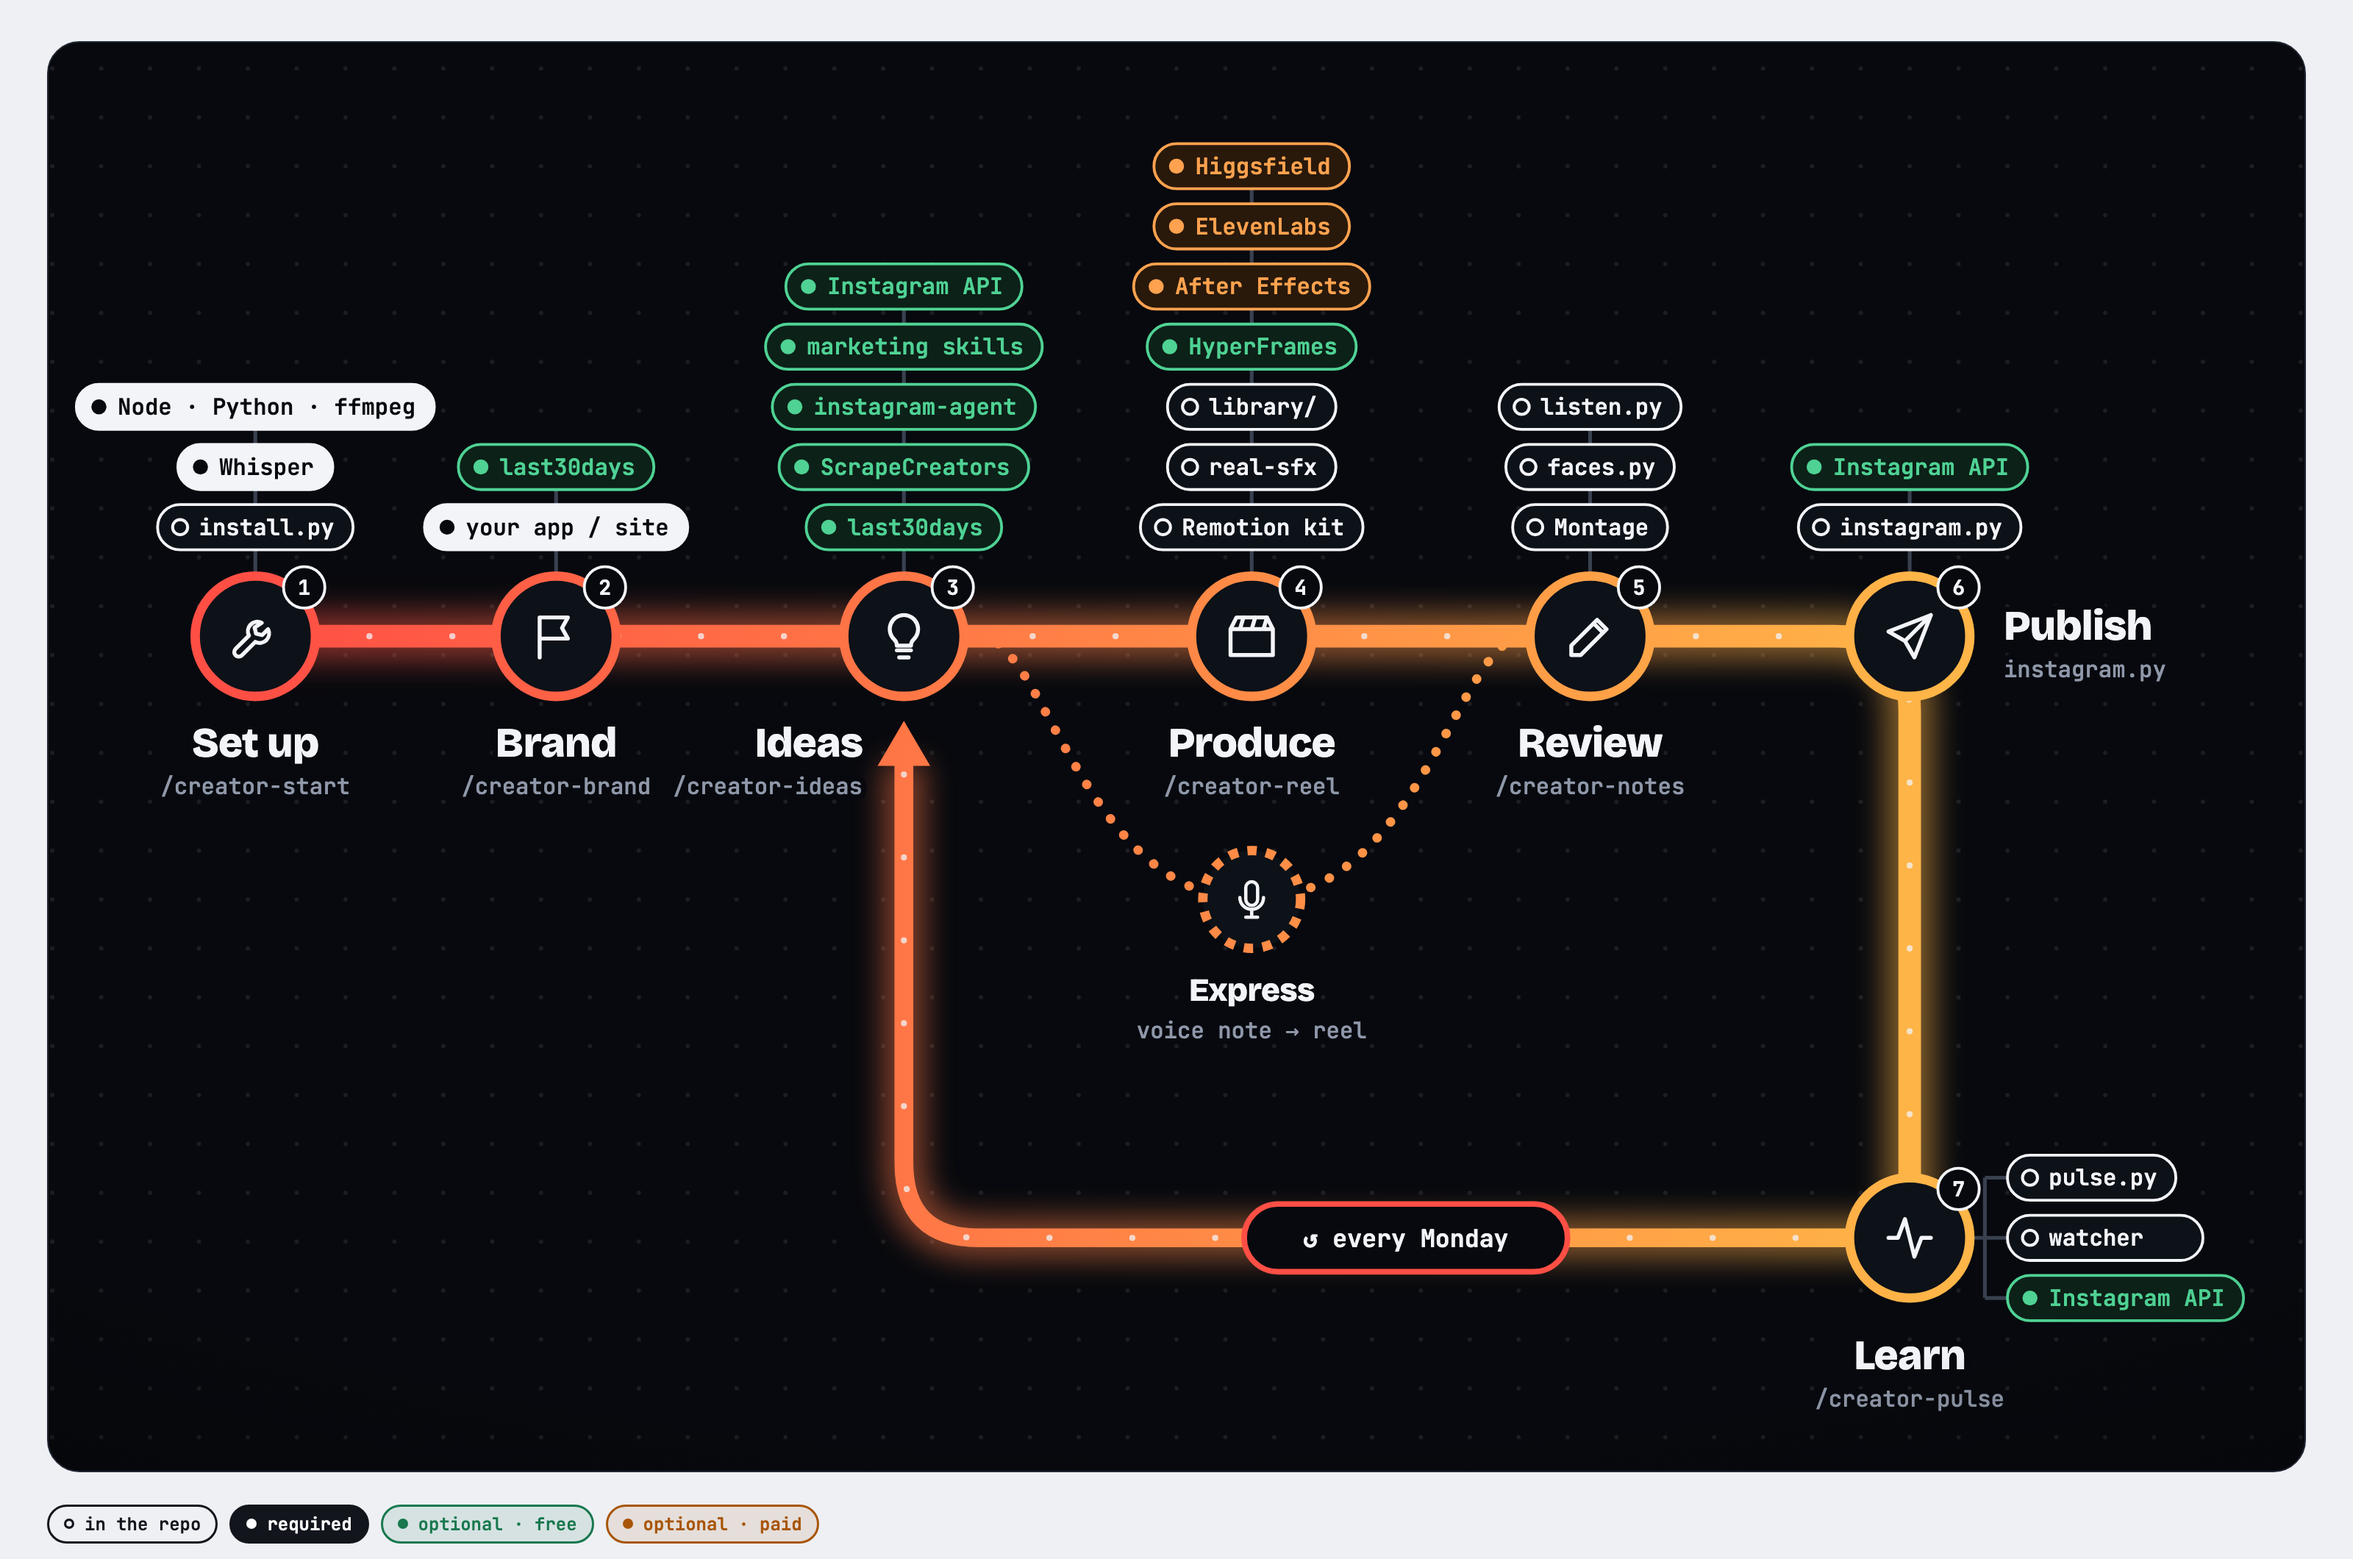
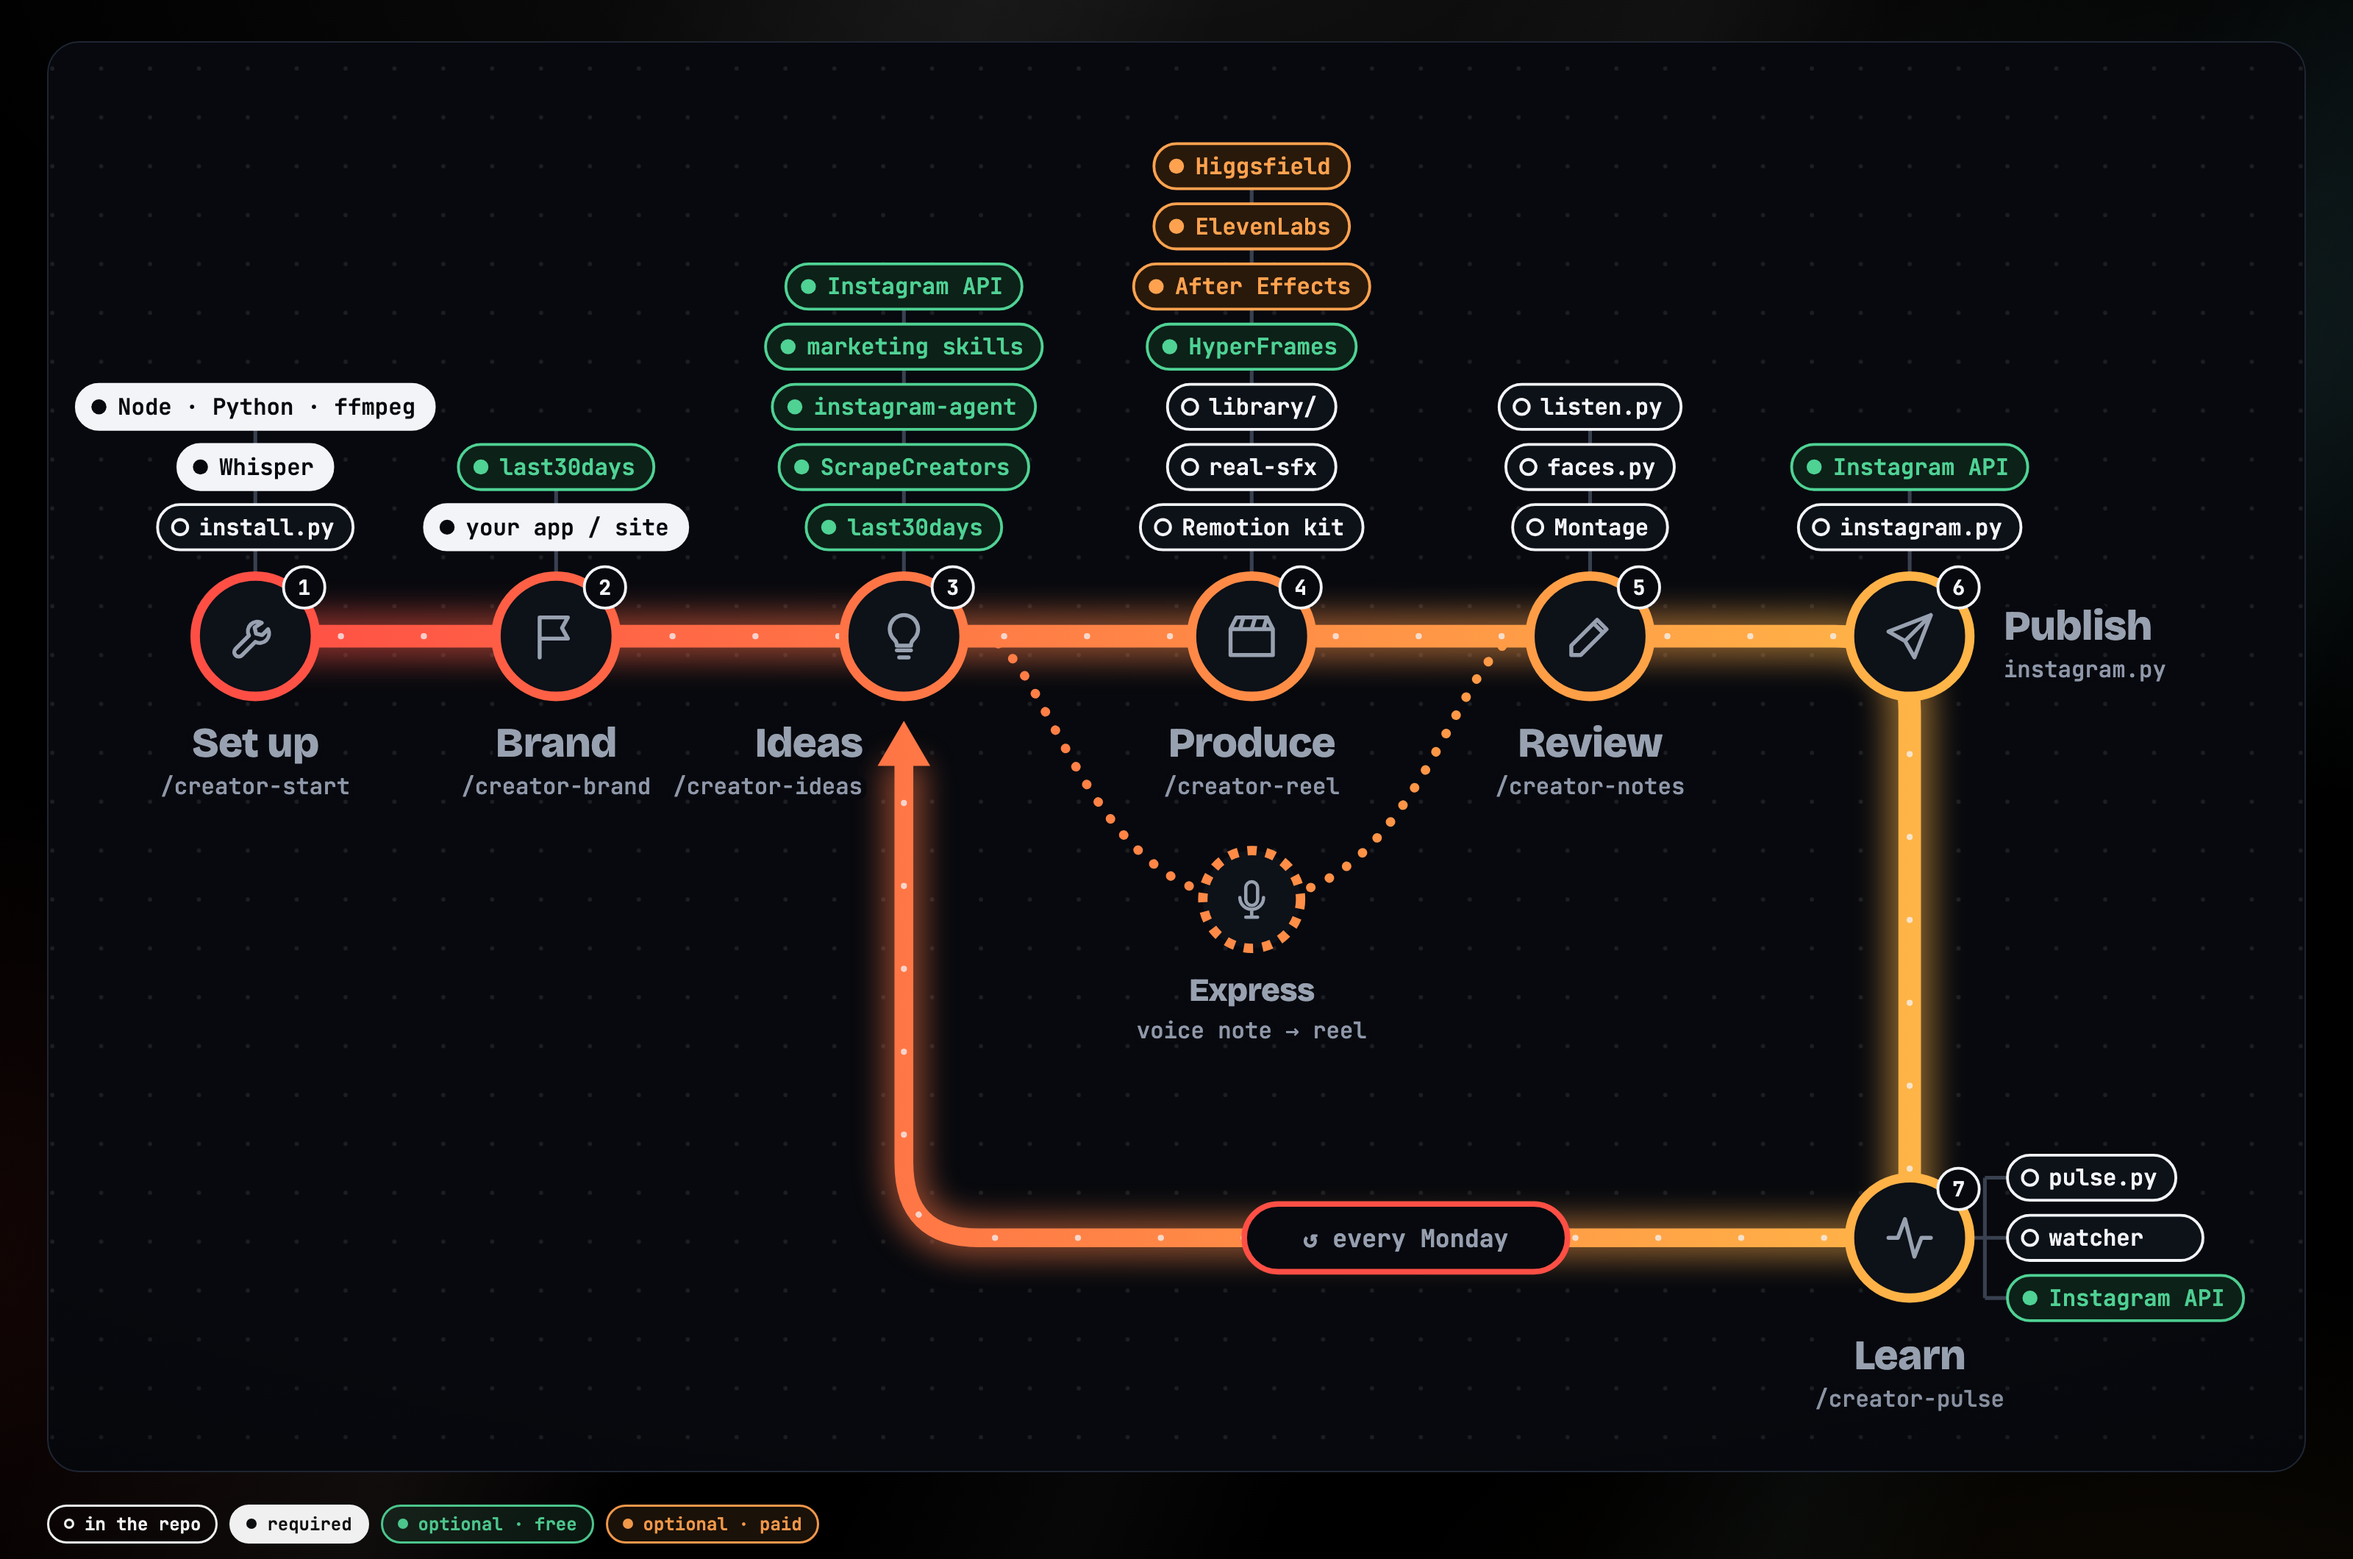
Map: the Dirac Core look, black with drifting light beams and glass panels

diff --git a/docs/guide.html b/docs/guide.html
@@ -12,8 +12,10 @@
 <style>
 /* Layout: a dark player (the metro map as a screen, with the chapter panel beside it), then the timeline of what each step uses, then how to start. */
 :root {
-  --bg: #eef0f4; --surface: #ffffff; --ink: #12151c; --muted: #5b6372; --rule: #d6dbe3;
-  --accent: #d93e33; --free: #18784e; --paid: #a85507;
+  /* one look, the one of diraccore.com: pure black, light beams, translucent edges */
+  --bg: #000000; --surface: #0d0e10; --ink: #f0f0f0; --muted: #a1a4a5; --rule: #ddeaf81a;
+  --accent: #ff6155; --free: #4cc58c; --paid: #f0974a; --ice: #7de3f4; --panel: rgb(20 21 23 / 0.6);
+  color-scheme: dark;
   /* the player is a screen: the same in both themes */
   --s-bg: #07090e; --s-panel: #0d1118; --s-raise: #151a24; --s-ink: #f2f4f8; --s-muted: #8f98a9; --s-faint: #1f2632; --s-dim: #394150;
   --s-red: #ff4f45; --s-amber: #ffb547; --s-free: #4fd294; --s-free-bg: #0c2118; --s-paid: #ffa24f; --s-paid-bg: #29190a; --s-shade: rgb(0 0 0 / 0.62);
@@ -21,11 +23,27 @@
   --body: "Inter", system-ui, -apple-system, "Segoe UI", sans-serif;
   --mono: "JetBrains Mono", ui-monospace, Menlo, Consolas, monospace;
 }
-@media (prefers-color-scheme: dark) { :root:not([data-theme="light"]) { --bg: #0a0c11; --surface: #11151d; --ink: #eceef3; --muted: #99a1b0; --rule: #232934; --accent: #ff6155; --free: #4cc58c; --paid: #f0974a; color-scheme: dark; } }
-:root[data-theme="dark"] { --bg: #0a0c11; --surface: #11151d; --ink: #eceef3; --muted: #99a1b0; --rule: #232934; --accent: #ff6155; --free: #4cc58c; --paid: #f0974a; color-scheme: dark; }
 * { box-sizing: border-box; }
 [hidden] { display: none !important; }
-body { margin: 0; background: var(--bg); color: var(--ink); font-family: var(--body); font-size: 15px; line-height: 1.45; }
+body { margin: 0; background: var(--bg); color: var(--ink); font-family: var(--body); font-size: 15px; line-height: 1.45; position: relative; isolation: isolate; }
+/* the background: diagonal beams of light that drift slowly, a soft white glow on top,
+   the brand's ice blue on one side and the map's red and amber on the other */
+body::before, body::after { content: ""; position: fixed; inset: -20%; z-index: -1; pointer-events: none; }
+body::before {
+  background:
+    linear-gradient(112deg, transparent 32%, rgb(255 255 255 / 0.045) 41%, transparent 47%),
+    linear-gradient(112deg, transparent 52%, rgb(255 255 255 / 0.03) 58%, transparent 63%),
+    linear-gradient(112deg, transparent 70%, rgb(125 227 244 / 0.035) 75%, transparent 80%);
+  animation: beams 26s ease-in-out infinite alternate;
+}
+body::after {
+  background:
+    radial-gradient(55% 35% at 50% 12%, rgb(255 255 255 / 0.07), transparent 70%),
+    radial-gradient(35% 30% at 88% 30%, rgb(125 227 244 / 0.09), transparent 70%),
+    radial-gradient(40% 32% at 10% 72%, rgb(255 79 69 / 0.08), transparent 70%),
+    radial-gradient(35% 28% at 80% 92%, rgb(255 181 71 / 0.06), transparent 70%);
+}
+@keyframes beams { from { transform: translateX(-4%); } to { transform: translateX(4%); } }
 body[data-l="en"] [data-es-only], body[data-l="es"] [data-en-only] { display: none; }
 .page { max-width: 1320px; margin: 0 auto; padding-left: max(16px, env(safe-area-inset-left, 0px)); padding-right: max(16px, env(safe-area-inset-right, 0px)); padding-block: 26px 56px; display: grid; gap: 22px; }
 button { font-family: inherit; }
@@ -62,7 +80,7 @@ h1 span { background: linear-gradient(100deg, var(--s-red), var(--s-amber)); -we
 .mt-head h2 { margin: 0; display: flex; align-items: baseline; gap: 12px; flex-wrap: wrap; font: 800 clamp(1.6rem, 3.4vw, 2.3rem)/1.05 var(--display); letter-spacing: -0.02em; text-wrap: balance; }
 .mt-head h2 code { font: 500 0.85rem var(--mono); color: var(--muted); letter-spacing: 0; }
 .mt-head p { margin: 6px 0 0; color: var(--muted); max-width: 70ch; }
-.shot { margin: 0; display: grid; grid-template-columns: minmax(0, 1.75fr) minmax(0, 1fr); gap: 18px 26px; align-items: center; background: var(--surface); border: 1px solid var(--rule); border-radius: 22px; padding: 16px; }
+.shot { margin: 0; display: grid; grid-template-columns: minmax(0, 1.75fr) minmax(0, 1fr); gap: 18px 26px; align-items: center; background: var(--panel); -webkit-backdrop-filter: blur(10px); backdrop-filter: blur(10px); border: 1px solid var(--rule); border-radius: 22px; padding: 16px; }
 .shot img { display: block; width: 100%; height: auto; max-width: 100%; border-radius: 12px; border: 1px solid var(--rule); }
 .shot figcaption { display: grid; gap: 8px; padding-right: 8px; min-width: 0; }
 .shot .n { width: 34px; height: 34px; border-radius: 50%; display: grid; place-items: center; background: var(--accent); color: var(--surface); font: 700 0.85rem var(--mono); }
@@ -218,7 +236,7 @@ path.lit.exp { stroke-width: 5; stroke-dasharray: 0.1 11; }
 .tl-sec { display: grid; gap: 16px; margin-top: 18px; }
 .tl-head h2 { margin: 0; font: 800 clamp(1.6rem, 3.4vw, 2.3rem)/1.05 var(--display); letter-spacing: -0.02em; text-wrap: balance; }
 .tl-head p { margin: 6px 0 0; color: var(--muted); }
-.tl { --t-ink: var(--ink); --t-inv: var(--surface); --t-free: var(--free); --t-paid: var(--paid); list-style: none; margin: 0; padding: 0 24px; background: var(--surface); border: 1px solid var(--rule); border-radius: 22px; }
+.tl { --t-ink: var(--ink); --t-inv: var(--surface); --t-free: var(--free); --t-paid: var(--paid); list-style: none; margin: 0; padding: 0 24px; background: var(--panel); -webkit-backdrop-filter: blur(10px); backdrop-filter: blur(10px); border: 1px solid var(--rule); border-radius: 22px; }
 .tl-row { display: grid; grid-template-columns: 56px minmax(0, 1fr) minmax(0, 1.2fr); gap: 10px 28px; padding-block: 24px; border-top: 1px solid var(--rule); }
 .tl-row:first-child { border-top: 0; }
 .tl-mark { position: relative; display: flex; justify-content: center; align-items: flex-start; }
@@ -241,7 +259,7 @@ path.lit.exp { stroke-width: 5; stroke-dasharray: 0.1 11; }
 .tl-uses span { color: var(--muted); font-size: 0.94rem; line-height: 1.3; }
 
 /* how to start */
-.foot { display: grid; grid-template-columns: minmax(0, 1.25fr) minmax(0, 1fr); gap: 20px 30px; background: var(--surface); border: 1px solid var(--rule); border-radius: 22px; padding: 22px 24px; }
+.foot { display: grid; grid-template-columns: minmax(0, 1.25fr) minmax(0, 1fr); gap: 20px 30px; background: var(--panel); -webkit-backdrop-filter: blur(10px); backdrop-filter: blur(10px); border: 1px solid var(--rule); border-radius: 22px; padding: 22px 24px; }
 .foot h3 { margin: 0 0 10px; font: 700 11px var(--mono); letter-spacing: 0.14em; text-transform: uppercase; color: var(--muted); }
 .chain, .chips { display: flex; flex-wrap: wrap; gap: 8px; align-items: center; }
 .chain code, .chips code { font: 500 0.85rem var(--mono); background: var(--bg); border: 1px solid var(--rule); border-radius: 9px; padding: 6px 10px; overflow-wrap: anywhere; }
@@ -259,7 +277,7 @@ path.lit.exp { stroke-width: 5; stroke-dasharray: 0.1 11; }
   .d-index { grid-template-columns: minmax(0, 1fr); }
 }
 @media (prefers-reduced-motion: reduce) {
-  .flow, .st.cur .pulse, .pill.hit, .rec.on { animation: none; }
+  .flow, .st.cur .pulse, .pill.hit, .rec.on, body::before { animation: none; }
   .st .ring, .st .nm, .pill, .stack, .uses li > *, .d-ok, .spot, .train { transition: none; }
 }
 /* README render: only the map, in English */
